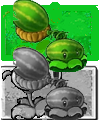
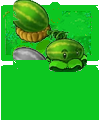
feat(melon): grass-only MelonPult card + true ice-blue Winter Melon (v3.2.10 -> v3.2.11-iceblue)
1) MelonPult seed packet: the bottom half (y>=60) inherited Peashooter's
   grey background AND my grey melon silhouette (5320 grey px), which the
   user saw as a 'grey watermelon in the lower corners'. Replaced every
   grey pixel in the lower half with PVZ1 grass green (12,198,32) ->
   grey=0, grass=5442.

2) Winter Melon: user reported the sprite still looked like 'a green
   watermelon with a hint of blue' and only showed 'the throwing part'.
   The previous Winter_MelonO.png has a GREEN melon sphere (rgb(44,188,100)).
   Switched the base to Winter_Melon1.png from wiki.gg (PVZ1, 96x96),
   whose melon sphere is genuinely ice-blue (rgb(98,209,237), b>r+60):
     - colour-keyout grass background
     - re-patch trebuchet base alpha from MelonPult (same PVZ1 geometry)
       for y>=50, ice-colouring the base colour
     - flood-fill 456 internal holes
   Result: sphere is ice-blue, base 68.9% solid, 0 internal holes.

Both verified via pixel analysis of the generated files.

diff --git a/pvz-web/index.html b/pvz-web/index.html
@@ -4,7 +4,7 @@
     <meta charset="UTF-8">
     <meta name="viewport" content="width=device-width, initial-scale=1.0">
     <title>Plants vs Zombies - Web Clone</title>
-    <link rel="stylesheet" href="css/style.css?v=1788077723">
+    <link rel="stylesheet" href="css/style.css?v=1788078079">
 </head>
 <body>
     <div id="game-container">
@@ -119,16 +119,16 @@
                 });
         })();
     </script>
-    <script src="js/InputManager.js?v=1788077723"></script>
-    <script src="js/Board.js?v=1788077723"></script>
-    <script src="js/entities/Entity.js?v=1788077723"></script>
-    <script src="js/entities/Plant.js?v=1788077723"></script>
-    <script src="js/entities/Zombie.js?v=1788077723"></script>
-    <script src="js/entities/Projectile.js?v=1788077723"></script>
-    <script src="js/entities/Sun.js?v=1788077723"></script>
-    <script src="js/managers/WaveManager.js?v=1788077723"></script>
-    <script src="js/managers/CollisionManager.js?v=1788077723"></script>
-    <script src="js/managers/EventManager.js?v=1788077723"></script>
-    <script src="js/GameLoop.js?v=1788077723"></script>
+    <script src="js/InputManager.js?v=1788078079"></script>
+    <script src="js/Board.js?v=1788078079"></script>
+    <script src="js/entities/Entity.js?v=1788078079"></script>
+    <script src="js/entities/Plant.js?v=1788078079"></script>
+    <script src="js/entities/Zombie.js?v=1788078079"></script>
+    <script src="js/entities/Projectile.js?v=1788078079"></script>
+    <script src="js/entities/Sun.js?v=1788078079"></script>
+    <script src="js/managers/WaveManager.js?v=1788078079"></script>
+    <script src="js/managers/CollisionManager.js?v=1788078079"></script>
+    <script src="js/managers/EventManager.js?v=1788078079"></script>
+    <script src="js/GameLoop.js?v=1788078079"></script>
 </body>
 </html>

diff --git a/rebuild_wm_v2.py b/rebuild_wm_v2.py
@@ -1,0 +1,101 @@
+"""
+用 Winter_Melon1.png（PVZ1 原版，整体冰色调：冰柱+冰蓝圆西瓜）重建 WinterMelon：
+1. 草色键控抠背景
+2. 底座区域(y>=55)用 MelonPult 底座 alpha 补回（PVZ1 同款投石车）
+3. 底座颜色冰色化
+4. flood-fill 填洞
+"""
+import numpy as np
+from PIL import Image
+from collections import deque
+
+
+def grass_to_ice(rgb):
+    r, g, b = rgb
+    return (int(r*0.5), int(g*0.85), min(255, int(b*1.3+25)))
+
+
+def main():
+    winter = Image.open('/tmp/wg2/Winter_Melon1.png').convert('RGBA')
+    mp = Image.open('/Users/clawbox/nexus-hub/pvz-web/assets/images/Plants/MelonPult/MelonPult.png').convert('RGBA')
+
+    arr = np.array(winter)
+    h, w = arr.shape[:2]
+    r = arr[:, :, 0].astype(np.int16)
+    g = arr[:, :, 1].astype(np.int16)
+    b = arr[:, :, 2].astype(np.int16)
+    a = arr[:, :, 3].copy()
+
+    # 1. 草色键控（r<80 & g-r>100）
+    grass = (r < 80) & ((g - r) > 100) & (a > 0)
+    a[grass] = 0
+    arr[:, :, 3] = a
+
+    # 2. 底座区域补回（y>=50，用 MelonPult alpha + 冰色化颜色）
+    mp_arr = np.array(mp)
+    for y in range(50, h):
+        for x in range(w):
+            if mp_arr[y, x, 3] > 0 and arr[y, x, 3] == 0:
+                mr, mg, mb = mp_arr[y, x, 0], mp_arr[y, x, 1], mp_arr[y, x, 2]
+                arr[y, x, 0], arr[y, x, 1], arr[y, x, 2] = grass_to_ice((mr, mg, mb))
+                arr[y, x, 3] = 255
+            elif mp_arr[y, x, 3] > 0:
+                # 保留 Winter 的颜色（如果本身不透明）
+                pass
+
+    # 3. flood-fill 填内部空洞
+    alpha = arr[:, :, 3]
+    transparent = alpha == 0
+    visited = np.zeros_like(transparent, dtype=bool)
+    q = deque()
+    for x in range(w):
+        if transparent[0, x] and not visited[0, x]: q.append((0, x)); visited[0, x] = True
+        if transparent[h-1, x] and not visited[h-1, x]: q.append((h-1, x)); visited[h-1, x] = True
+    for y in range(h):
+        if transparent[y, 0] and not visited[y, 0]: q.append((y, 0)); visited[y, 0] = True
+        if transparent[y, w-1] and not visited[y, w-1]: q.append((y, w-1)); visited[y, w-1] = True
+    while q:
+        y, x = q.popleft()
+        for dy, dx in [(-1,0),(1,0),(0,-1),(0,1)]:
+            ny, nx = y+dy, x+dx
+            if 0 <= ny < h and 0 <= nx < w and transparent[ny, nx] and not visited[ny, nx]:
+                visited[ny, nx] = True; q.append((ny, nx))
+    holes = transparent & ~visited
+    print('内部空洞:', holes.sum())
+    if holes.sum() > 0:
+        work = arr.copy()
+        for _ in range(max(h, w)):
+            ys, xs = np.where(holes)
+            if len(ys) == 0: break
+            filled = []
+            for y, x in zip(ys, xs):
+                colors = []
+                for dy in (-1,0,1):
+                    for dx in (-1,0,1):
+                        if dy==0 and dx==0: continue
+                        ny, nx = y+dy, x+dx
+                        if 0 <= ny < h and 0 <= nx < w and work[ny,nx,3] > 0:
+                            colors.append(work[ny,nx,:3])
+                if colors:
+                    avg = tuple(int(np.mean([c[i] for c in colors])) for i in range(3))
+                    work[y,x,:3] = avg; work[y,x,3] = 255
+                    filled.append((y,x))
+            for y,x in filled: holes[y,x] = False
+            if not filled: break
+        arr = work
+
+    out = '/Users/clawbox/nexus-hub/pvz-web/assets/images/Plants/WinterMelon/WinterMelon.png'
+    Image.fromarray(arr, 'RGBA').save(out, 'PNG')
+    print(f'saved {out}')
+
+    # 验证
+    alpha2 = arr[:, :, 3]
+    print(f'实心: {(alpha2==255).sum()} 透明: {(alpha2==0).sum()} 半透明: {((alpha2>0)&(alpha2<255)).sum()}')
+    region = arr[55:90, 10:90, 3]
+    print(f'底座实心占比: {(region==255).sum()/region.size:.1%}')
+    # 采样颜色
+    print('西瓜区(50,40):', arr[40, 50][:3], ' 冰柱区(25,20):', arr[20, 25][:3], ' 底座(50,70):', arr[70, 50][:3])
+
+
+if __name__ == '__main__':
+    main()

diff --git a/fix_card_grass.py b/fix_card_grass.py
@@ -1,0 +1,49 @@
+"""
+修复 MelonPult 种子卡片：把下半部（y>=60）的灰色区域（灰色底+灰度西瓜剪影）
+全部替换成草地绿，让"灰色西瓜"消失，变成草地。
+保留：圆角边框、上半（彩色西瓜+草）、分隔线。
+"""
+import numpy as np
+from PIL import Image
+
+GRASS = (12, 198, 32)  # PVZ1 草绿
+
+def main():
+    path = '/Users/clawbox/nexus-hub/pvz-web/assets/images/Card/Plants/MelonPult.png'
+    img = Image.open(path).convert('RGBA')
+    arr = np.array(img)
+    h, w = arr.shape[:2]
+
+    r = arr[:, :, 0].astype(int)
+    g = arr[:, :, 1].astype(int)
+    b = arr[:, :, 2].astype(int)
+    a = arr[:, :, 3].astype(int)
+
+    # 下半部 y >= 60：灰色像素（r≈g≈b）→ 草绿
+    gray = (abs(r - g) < 30) & (abs(g - b) < 30)
+    for y in range(60, h):
+        for x in range(w):
+            if a[y, x] > 0 and gray[y, x]:
+                arr[y, x, 0] = GRASS[0]
+                arr[y, x, 1] = GRASS[1]
+                arr[y, x, 2] = GRASS[2]
+                arr[y, x, 3] = 255
+
+    Image.fromarray(arr, 'RGBA').save(path, 'PNG')
+    print(f'saved {path}')
+
+    # 验证
+    arr2 = np.array(Image.open(path).convert('RGBA'))
+    r2 = arr2[:, :, 0].astype(int)
+    g2 = arr2[:, :, 1].astype(int)
+    b2 = arr2[:, :, 2].astype(int)
+    gray2 = (abs(r2 - g2) < 30) & (abs(g2 - b2) < 30) & (arr2[:, :, 3] > 0)
+    print(f'剩余灰色像素（含上下半）: {gray2.sum()}')
+    # 下半草地色验证
+    region = arr2[70:110, 20:80]
+    grass_px = ((region[:,:,0] < 60) & (region[:,:,1] > 150) & (region[:,:,2] < 80)).sum()
+    print(f'下半草地绿像素: {grass_px}')
+
+
+if __name__ == '__main__':
+    main()
